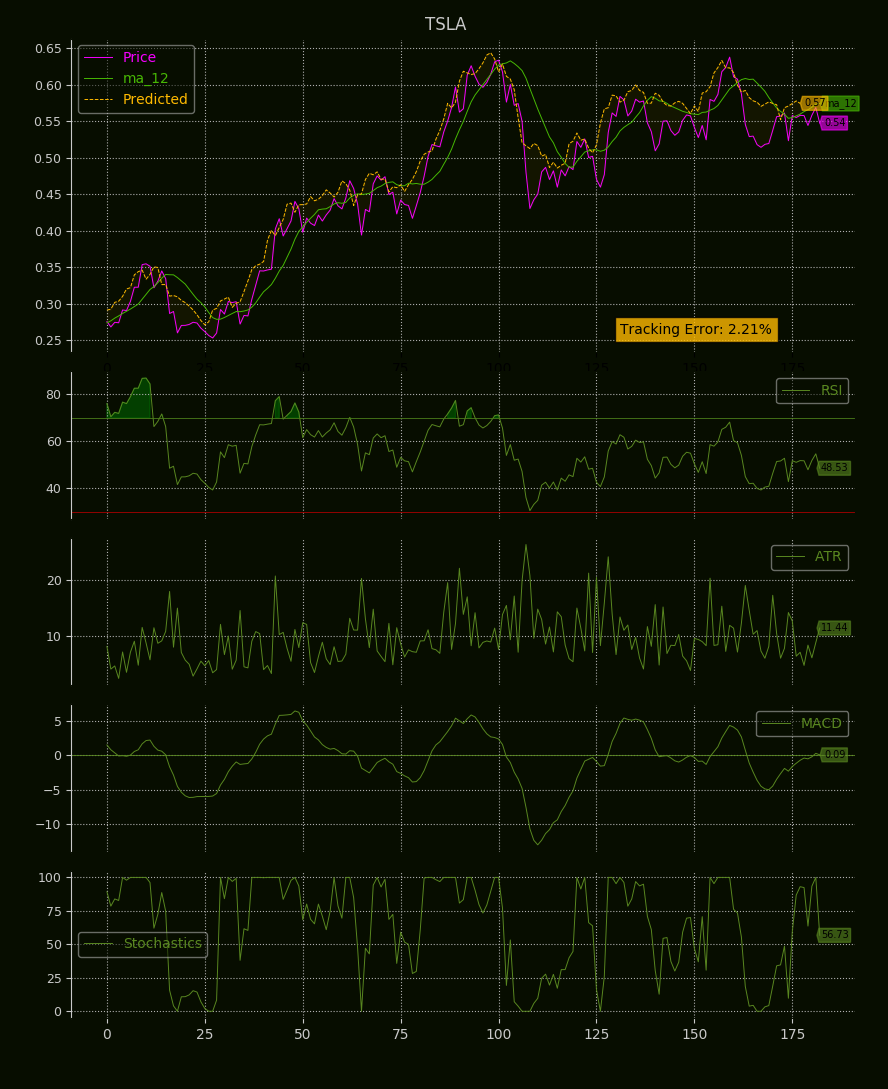
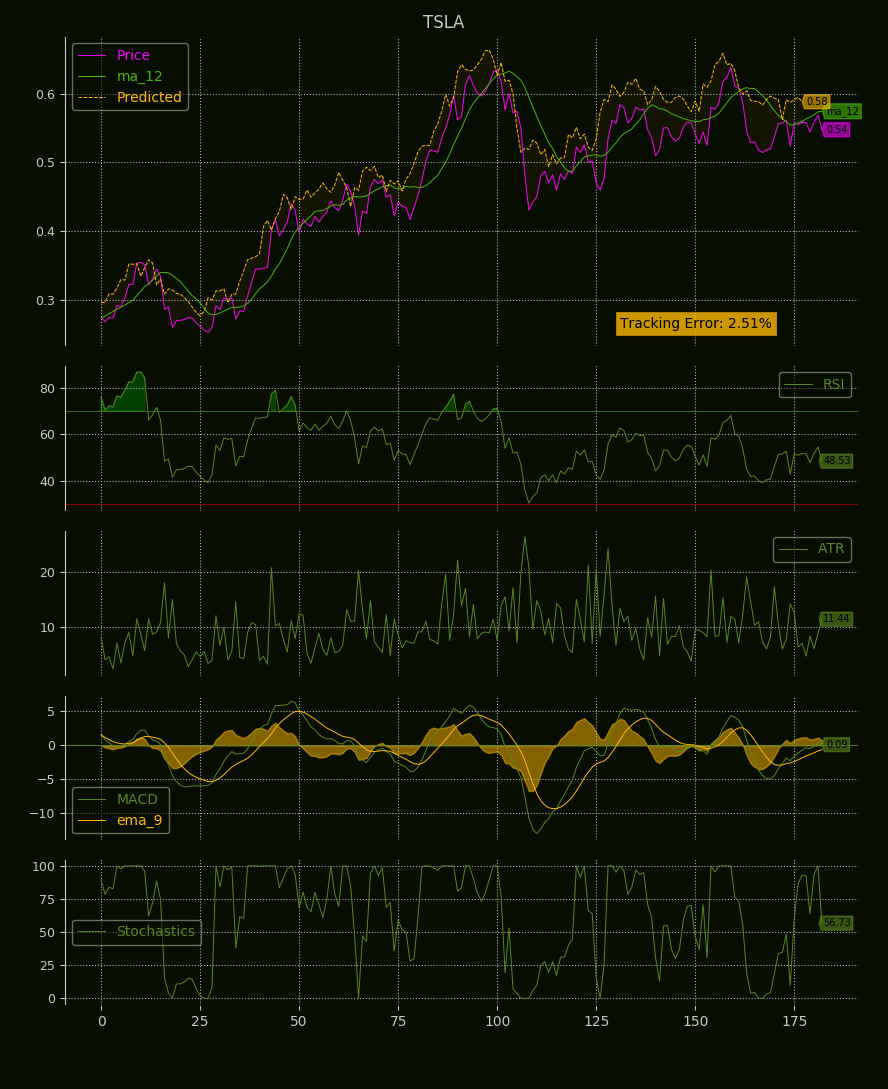
update

diff --git a/graph.py b/graph.py
@@ -4,6 +4,7 @@ from matplotlib.path import Path
 import matplotlib.transforms as mtrans
 from matplotlib.patches import BoxStyle
 import pandas as pd
+from indicators import CalculateIndicators
 
 
 def truncate(f, n):
@@ -93,7 +94,7 @@ def _add_graph(fig, data_df, main_grid_y, position_y, label, color, sharex=None,
     return ax
 
 
-def draw(ticker, df, predicted_data_y, moving_average_1=None, moving_average_2=None, **kwargs):
+def draw(ticker, df, predicted_data_y, ci_object, **kwargs):
     fig = plt.figure(facecolor='#070d00')
     fig.canvas.set_window_title(ticker)
     plt.subplots_adjust(left=.08, bottom=.08, right=.96, top=.96, hspace=.3, wspace=.0)
@@ -107,6 +108,8 @@ def draw(ticker, df, predicted_data_y, moving_average_1=None, moving_average_2=N
     draw_ATR = False
     draw_MACD = False
     draw_Stochastics = False
+    draw_moving_average_1 = False
+    draw_moving_average_2 = False
 
     main_grid_y = 4
     postition_y = [2, 2, 2, 2]
@@ -117,6 +120,13 @@ def draw(ticker, df, predicted_data_y, moving_average_1=None, moving_average_2=N
                 accent_color = kwargs[key]
             if key == 'indicators_color':
                 indicators_color = kwargs[key]
+
+            if key == 'draw_moving_average_1':
+                draw_moving_average_1 = kwargs[key]
+
+            if key == 'draw_moving_average_2':
+                draw_moving_average_2 = kwargs[key]
+
             if key == 'draw_RSI':
                 draw_RSI = True
                 postition_y = [x + y for x, y in zip(postition_y, [2, 2, 2, 2])]
@@ -145,15 +155,15 @@ def draw(ticker, df, predicted_data_y, moving_average_1=None, moving_average_2=N
     _plot(fig, ax_main, test_data_y, '#f600ff', 'Price')
 
     # Plot indicators
-    if moving_average_1:
-        ma = df[moving_average_1].as_matrix()
+    if draw_moving_average_1:
+        ma = df[ci_object.moving_average_1_label].as_matrix()
         _plot(fig=fig, ax=ax_main, data=ma, color='#47b804',
-              label=moving_average_1, end_label=moving_average_1, offset=.21)
+              label=ci_object.moving_average_1_label, end_label=ci_object.moving_average_1_label, offset=.21)
 
-    if moving_average_2:
-        ma = df[moving_average_2].as_matrix()
+    if draw_moving_average_2:
+        ma = df[ci_object.moving_average_2_label].as_matrix()
         _plot(fig=fig, ax=ax_main, data=ma, color='#205d01',
-              label=moving_average_2, end_label=moving_average_2, offset=.21)
+              label=ci_object.moving_average_2_label, end_label=ci_object.moving_average_2_label, offset=.21)
 
     if draw_RSI:
         ax = _add_graph(fig=fig, data_df=df, main_grid_y=main_grid_y,
@@ -168,8 +178,6 @@ def draw(ticker, df, predicted_data_y, moving_average_1=None, moving_average_2=N
                         facecolors='#a90000', alpha=.5, edgecolor='#a90000')
         if position_labels_y == 0:
             ax.tick_params(axis='x', colors=accent_color)
-
-
 
     if draw_ATR:
         ax = _add_graph(fig=fig, data_df=df, main_grid_y=main_grid_y,
@@ -188,10 +196,14 @@ def draw(ticker, df, predicted_data_y, moving_average_1=None, moving_average_2=N
         if position_labels_y == 2:
             ax.tick_params(axis='x', colors=accent_color)
 
-        ema = pd.ewma(df['MACD'], span=9)
+        ema = pd.ewma(df['MACD'], span=ci_object.MACD_signal)
         ax.plot(arange_y, ema, label='ema_9', color='#ffba00', linewidth=0.7)
         ax.fill_between(arange_y, df['MACD'] - ema, 0 , facecolors='#ffba00', alpha=.5, edgecolor='#ffba00')
-
+        ax.legend(loc='upper left')
+        legend = ax.legend(loc='best', fancybox=True, framealpha=0.5)
+        legend.get_frame().set_facecolor('#070d00')
+        for line, text in zip(legend.get_lines(), legend.get_texts()):
+            text.set_color(line.get_color())
 
     if draw_Stochastics:
         ax = _add_graph(fig=fig, data_df=df, main_grid_y=main_grid_y,
@@ -219,6 +231,7 @@ def draw(ticker, df, predicted_data_y, moving_average_1=None, moving_average_2=N
     ax_main.spines['top'].set_color('#070d00')
     ax_main.spines['bottom'].set_color('#070d00')
     ax_main.tick_params(axis='y', colors=accent_color, labelsize=9)
+    ax_main.tick_params(axis='x', colors='#070d00', labelsize=9)
 
     ax_main.fill_between(np.arange(0, len(predicted_data_y), 1), test_data_y[:len(predicted_data_y)], predicted_data_y,
                          alpha=.05, color='#ffba00')

diff --git a/main.py b/main.py
@@ -59,10 +59,8 @@ draw_ATR=True
 draw_MACD=True
 draw_Stochastics=True
 draw_RSI=True
-
-# By setting the labels of the ma the ma will be visible in the graph
-moving_average_1 = ci.moving_average_1_label
-moving_average_2 = None
+draw_moving_average_1 = True
+draw_moving_average_2 = False
 
 # I love to play around with colors :)
 accent_color = '#c9c9c9'
@@ -74,7 +72,8 @@ data[ci.moving_average_1_label] = data_n[ci.moving_average_1_label]
 data[ci.moving_average_2_label] = data_n[ci.moving_average_2_label]
 
 # Draw
-draw(ticker, data[dataset_train_length:], predicted_data, moving_average_1, moving_average_2,
+draw(ticker, data[dataset_train_length:], predicted_data, ci,
+     draw_moving_average_1 = draw_moving_average_1, draw_moving_average_2=draw_moving_average_2,
      draw_ATR=draw_ATR, draw_MACD=draw_MACD, draw_Stochastics=draw_Stochastics, draw_RSI=draw_RSI,
      accent_color=accent_color, indicators_color=indicators_color)
 

diff --git a/README.md b/README.md
@@ -71,10 +71,8 @@ draw_ATR=True
 draw_MACD=True
 draw_Stochastics=True
 draw_RSI=True
-
-# By setting the labels of the ma the ma will be visible in the graph
-moving_average_1 = ci.moving_average_1_label
-moving_average_2 = None
+draw_moving_average_1 = False
+draw_moving_average_2 = True
 ```
 
 Result
